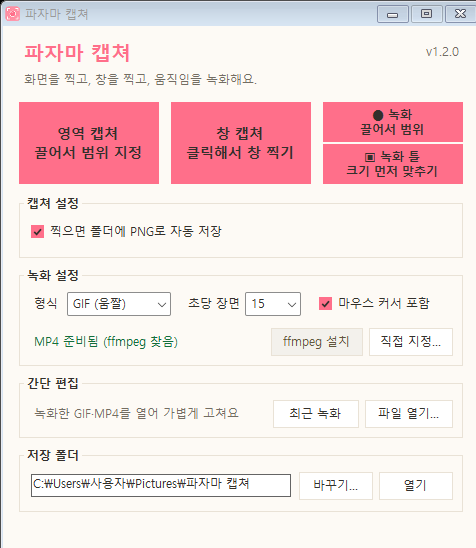
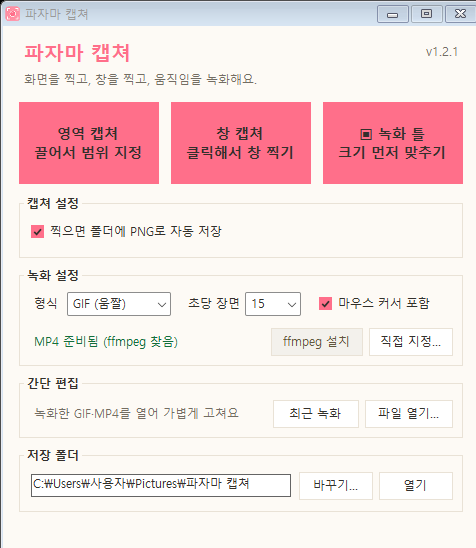
v1.2.1 — 메인 창의 「● 녹화(끌어서 범위)」 버튼 제거
같은 일(범위를 끌어서 정하고 바로 녹화)을 영역 캡쳐 도구 막대의 「● 녹화」로 할 수 있어 중복이라 뺐습니다.

- 메인 창: 「● 녹화 / 끌어서 범위」 버튼 삭제, 「▣ 녹화 틀」을 다른 두 버튼과 같은 큰 버튼으로
- 고르기 화면(Overlay): 녹화 전용 모드(OverlayMode.Record)와 그 안내 문구·「● 녹화 시작」 단추·Enter=녹화 처리를 삭제
  - 영역 캡쳐의 「● 녹화」, 녹화 테두리·녹화 막대(RecordFrame·RecordBar)·StartRecording 은 그대로 사용
- 영역 캡쳐에서 「● 녹화」를 눌렀을 때 MP4인데 ffmpeg 가 없으면 설치 안내/GIF 로 녹화를 묻도록 옮김(예전에는 지운 버튼에서만 물었음)
- 시험: 실제 화면 시험 3단계를 「영역 캡쳐 → 도구 막대 ● 녹화」로 바꾸고, 메인 창에 옛 버튼이 없는지 확인
- 문서: README(사용법 표·배지·버전 기록·메인 창 그림), docs/DEVELOPMENT.md 의 녹화 안내 수정
- 버전 1.2.1

Changed region(s): [[0.6765, 0.1861, 0.9706, 0.3412], [0.9412, 0.0931, 0.9706, 0.1241]]

diff --git a/src/MainForm.cs b/src/MainForm.cs
@@ -1,4 +1,4 @@
-// 파자마 캡쳐 메인 창 — 영역 캡쳐·창 캡쳐·녹화 버튼과 설정, 그리고 찍기→고르기→저장 흐름.
+// 파자마 캡쳐 메인 창 — 영역 캡쳐·창 캡쳐·녹화 틀 버튼과 설정, 그리고 찍기→고르기→저장(또는 녹화) 흐름.
 using System;
 using System.Collections.Generic;
 using System.Diagnostics;
@@ -24,7 +24,7 @@ namespace PajamaCapture
     static class Program
     {
         /// <summary>프로그램 버전. 바꾼 뒤 build.cmd 로 exe 를 다시 만든다.</summary>
-        public const string Version = "1.2.0";
+        public const string Version = "1.2.1";
 
         [STAThread]
         static int Main(string[] args)
@@ -129,7 +129,7 @@ namespace PajamaCapture
         public const string AppTitle = "파자마 캡쳐";
 
         readonly Settings settings = Settings.Load();
-        readonly Button btnArea = new Button(), btnWindow = new Button(), btnRecord = new Button(), btnFrame = new Button();
+        readonly Button btnArea = new Button(), btnWindow = new Button(), btnFrame = new Button();
         readonly ComboBox cbFormat = new ComboBox(), cbFps = new ComboBox();
         readonly CheckBox chkAutoSave = new PinkCheckBox(), chkCursor = new PinkCheckBox();
         readonly TextBox tbFolder = new TextBox();
@@ -146,7 +146,7 @@ namespace PajamaCapture
         RecordBar recordBar;
         FrameWindow frameWindow; // 녹화 틀(꿀캠 방식) — 열려 있는 동안만
 
-        const string RecordText = "● 녹화\n끌어서 범위", FrameText = "▣ 녹화 틀\n크기 먼저 맞추기", FrameCloseText = "▣ 녹화 틀 닫기";
+        const string FrameText = "▣ 녹화 틀\n크기 먼저 맞추기", FrameCloseText = "▣ 녹화 틀\n닫기";
 
         public MainForm()
         {
@@ -167,15 +167,8 @@ namespace PajamaCapture
 
             SetupBig(btnArea, "영역 캡쳐", "끌어서 범위 지정", 16);
             SetupBig(btnWindow, "창 캡쳐", "클릭해서 창 찍기", 168);
-            SetupBig(btnRecord, "● 녹화", "끌어서 범위", 320);
-            // 녹화 칸은 위아래 둘로 — 위: 끌어서 범위 정하고 바로 녹화(기존), 아래: 녹화 틀을 먼저 띄워 크기를 맞추고 녹화(꿀캠 방식)
-            btnRecord.Bounds = new Rectangle(320, 76, 140, 40);
-            btnRecord.Font = new Font("Malgun Gothic", 9f, FontStyle.Bold);
-            btnRecord.Text = RecordText;
-            btnFrame.Bounds = new Rectangle(320, 118, 140, 40);
-            btnFrame.Font = new Font("Malgun Gothic", 9f, FontStyle.Bold);
-            btnFrame.Text = FrameText;
-            btnFrame.Tag = PinkTheme.PrimaryTag;
+            // 녹화는 녹화 틀(꿀캠 방식)로 한다. 끌어서 범위를 정해 녹화하려면 영역 캡쳐 도구 막대의 「● 녹화」를 쓴다.
+            SetupBig(btnFrame, "▣ 녹화 틀", "크기 먼저 맞추기", 320);
 
             // 캡쳐 설정
             var gCapture = new PinkGroupBox { Text = "캡쳐 설정", Bounds = new Rectangle(16, 170, 444, 62) };
@@ -231,7 +224,7 @@ namespace PajamaCapture
             // 버전 — 제목 줄 오른쪽 끝에 흐린 글씨로(위치는 배율이 적용된 뒤 아래에서 맞춘다)
             var version = new Label { Name = "version", Text = "v" + Program.Version, AccessibleName = "버전 " + Program.Version, AutoSize = true };
 
-            Controls.AddRange(new Control[] { title, sub, version, btnArea, btnWindow, btnRecord, btnFrame, gCapture, gRecord, gEdit, gFolder, status });
+            Controls.AddRange(new Control[] { title, sub, version, btnArea, btnWindow, btnFrame, gCapture, gRecord, gEdit, gFolder, status });
             ResumeLayout(false);
             PinkTheme.Apply(this);
             title.ForeColor = PinkTheme.Accent;
@@ -255,7 +248,6 @@ namespace PajamaCapture
             // 이벤트
             btnArea.Click += (s, e) => StartPick(OverlayMode.Area);
             btnWindow.Click += (s, e) => StartPick(OverlayMode.Window);
-            btnRecord.Click += (s, e) => { if (recorder != null) StopRecording(false); else StartPick(OverlayMode.Record); };
             btnFrame.Click += (s, e) => ToggleFrame();
             chkAutoSave.CheckedChanged += (s, e) => { settings.AutoSave = chkAutoSave.Checked; settings.Save(); };
             cbFormat.SelectedIndexChanged += (s, e) => { settings.Mp4 = cbFormat.SelectedIndex == 1; settings.Save(); RefreshFfmpeg(); SyncFrameFormat(); };
@@ -368,7 +360,6 @@ namespace PajamaCapture
         void StartPick(OverlayMode mode)
         {
             if (busy) return;
-            if (mode == OverlayMode.Record && settings.Mp4 && !EnsureFfmpegOrGif()) return;
             busy = true;
             SetButtons(false);
             Hide(); // 이 창이 찍히지 않게 숨기고, 사라질 시간을 준 뒤 찍는다
@@ -426,7 +417,13 @@ namespace PajamaCapture
             try
             {
                 if (action == OverlayAction.Cancel) { shot.Dispose(); Done(); SetStatus("취소했어요."); return; }
-                if (action == OverlayAction.Record) { shot.Dispose(); StartRecording(rect); return; }
+                if (action == OverlayAction.Record) // 영역 캡쳐 도구 막대의 「● 녹화」 — 고른 범위 그대로 녹화
+                {
+                    shot.Dispose();
+                    if (settings.Mp4 && !EnsureFfmpegOrGif()) { Done(); SetStatus("녹화를 그만뒀어요."); return; }
+                    StartRecording(rect);
+                    return;
+                }
 
                 var local = rect;
                 local.Offset(-virt.X, -virt.Y);
@@ -504,7 +501,6 @@ namespace PajamaCapture
             bool frameOpen = frameWindow != null; // 녹화 틀이 떠 있는 동안에는 다른 찍기를 막고, 틀 버튼은 「닫기」가 된다
             btnArea.Enabled = on && !frameOpen;
             btnWindow.Enabled = on && !frameOpen;
-            btnRecord.Enabled = (on || recorder != null) && !frameOpen;
             btnFrame.Enabled = on && recorder == null;
             btnFrame.Text = frameOpen ? FrameCloseText : FrameText;
         }
@@ -601,7 +597,6 @@ namespace PajamaCapture
             recordBar.StopClicked += (s, e) => StopRecording(false);
             recordBar.CancelClicked += (s, e) => StopRecording(true);
             recordBar.Show();
-            btnRecord.Text = "■ 녹화 정지\n저장하기";
             SetButtons(false);
             SetStatus("녹화 중이에요. 막대의 「정지」를 누르면 저장해요.");
         }
@@ -624,7 +619,6 @@ namespace PajamaCapture
             if (recordFrame != null) { recordFrame.Close(); recordFrame = null; }
             if (recordBar != null) { recordBar.Close(); recordBar = null; }
             recorder = null;
-            btnRecord.Text = RecordText;
             if (frameWindow != null) frameWindow.ShowIdle(); // 틀은 그대로 두어 같은 자리에서 또 녹화할 수 있다
             Done();
 

diff --git a/tests/UiDriver.cs b/tests/UiDriver.cs
@@ -116,14 +116,17 @@ static class UiDriver
             target = null;
             Thread.Sleep(600);
 
-            // 3) 녹화(GIF): 범위를 끌어 정하고 Enter → 2초 뒤 막대의 「정지」
-            Console.WriteLine("[녹화]");
+            // 3) 녹화(GIF): 영역 캡쳐에서 범위를 끌어 정하고 도구 막대의 「● 녹화」 → 2초 뒤 막대의 「정지」
+            //    (메인 창의 「끌어서 범위」 녹화 버튼은 v1.2.1 에서 없앴다 — 같은 일을 영역 캡쳐가 한다)
+            Console.WriteLine("[녹화 — 영역 캡쳐의 ● 녹화]");
             main = FindWindow(app.Id, "파자마 캡쳐");
-            Invoke(main, "● 녹화");
+            Check(!HasButton(main, "● 녹화"), "메인 창에 「● 녹화(끌어서 범위)」 버튼이 없음");
+            Invoke(main, "영역 캡쳐");
             Thread.Sleep(900);
             Drag(prim.X + 400, prim.Y + 300, prim.X + 800, prim.Y + 540);
-            Thread.Sleep(250);
-            Key(0x0D);
+            Thread.Sleep(350);
+            Point rec = ToolbarButton(Rectangle.FromLTRB(prim.X + 400, prim.Y + 300, prim.X + 801, prim.Y + 541), 2);
+            Click(rec.X, rec.Y);
             Thread.Sleep(2200);
             AutomationElement bar = WaitFor(() => FindWindow(app.Id, "파자마 캡쳐 - 녹화 중"), 3000);
             Check(bar != null, "녹화 막대가 뜸");
@@ -291,6 +294,33 @@ static class UiDriver
         Application.DoEvents();
         Thread.Sleep(600);
         return gif ?? lastGif;
+    }
+
+    static bool HasButton(AutomationElement window, string startsWith)
+    {
+        foreach (AutomationElement b in window.FindAll(TreeScope.Descendants, new PropertyCondition(AutomationElement.ControlTypeProperty, ControlType.Button)))
+            if (b.Current.Name.StartsWith(startsWith)) return true;
+        return false;
+    }
+
+    /// <summary>영역 캡쳐 도구 막대의 index 번째 단추 가운데(화면 좌표). 그림으로만 그려지는 단추라 src\Overlay.cs 의 LayoutButtons 와 같은 계산을 한다.</summary>
+    static Point ToolbarButton(Rectangle sel, int index)
+    {
+        Point c = new Point(sel.X + sel.Width / 2, sel.Y + sel.Height / 2);
+        float scale = Math.Max(1f, DpiAt(c) / 96f);
+        Func<float, int> S = px => (int)Math.Round(px * scale);
+        string[] texts = { "복사  (Enter)", "저장…", "● 녹화", "취소" };
+        var widths = new int[texts.Length];
+        int gap = S(6), h = S(34), pad = S(6), total = -gap;
+        using (var bold = new Font("Malgun Gothic", 13f * scale, FontStyle.Bold, GraphicsUnit.Pixel))
+            for (int i = 0; i < texts.Length; i++) { widths[i] = TextRenderer.MeasureText(texts[i], bold).Width + S(24); total += widths[i] + gap; }
+        Rectangle m = Screen.FromPoint(c).Bounds;
+        int x = Math.Max(m.Left + pad, Math.Min(sel.Right - total, m.Right - total - pad));
+        int y = sel.Bottom + S(10);
+        if (y + h + pad > m.Bottom) y = sel.Top - S(10) - h;
+        if (y < m.Top + pad) y = sel.Bottom - S(10) - h;
+        for (int i = 0; i < index; i++) x += widths[i] + gap;
+        return new Point(x + widths[index] / 2, y + h / 2);
     }
 
     static AutomationElement FindWindow(int pid, string title)

diff --git a/src/Overlay.cs b/src/Overlay.cs
@@ -10,7 +10,7 @@ using PinkUi;
 
 namespace PajamaCapture
 {
-    enum OverlayMode { Area, Window, Record }
+    enum OverlayMode { Area, Window }
     enum OverlayAction { Cancel, Copy, Save, Record }
 
     sealed class Overlay : Form
@@ -187,7 +187,6 @@ namespace PajamaCapture
         string HintText()
         {
             if (mode == OverlayMode.Window) return "캡쳐할 창을 클릭하세요  ·  Esc 취소";
-            if (mode == OverlayMode.Record) return "녹화할 영역을 끌어서 정하거나 창을 클릭하세요  ·  Esc 취소";
             return "끌어서 영역을 정하세요  ·  창 위에서 클릭하면 창 범위  ·  Esc 취소";
         }
 
@@ -226,16 +225,9 @@ namespace PajamaCapture
         {
             buttons.Clear();
             if (!hasSel || drag != DragKind.None) return;
-            if (mode == OverlayMode.Record)
-            {
-                Add("● 녹화 시작", OverlayAction.Record, true);
-            }
-            else
-            {
-                Add("복사  (Enter)", OverlayAction.Copy, true);
-                Add("저장…", OverlayAction.Save, false);
-                Add("● 녹화", OverlayAction.Record, false);
-            }
+            Add("복사  (Enter)", OverlayAction.Copy, true);
+            Add("저장…", OverlayAction.Save, false);
+            Add("● 녹화", OverlayAction.Record, false); // 고른 범위를 그대로 녹화(끌어서 범위 정해 녹화하는 유일한 길)
             Add("취소", OverlayAction.Cancel, false);
 
             int gap = S(6), h = S(34), total = -gap;
@@ -510,7 +502,7 @@ namespace PajamaCapture
         {
             base.OnMouseDoubleClick(e);
             if (e.Button == MouseButtons.Left && hasSel && sel.Contains(e.Location) && mode != OverlayMode.Window)
-                Finish(PrimaryAction);
+                Finish(OverlayAction.Copy);
         }
 
         Point ClampPoint(Point p)
@@ -533,16 +525,14 @@ namespace PajamaCapture
             else Cursor = Cursors.Cross;
         }
 
-        // ── 키보드: Enter 확정, Esc 취소, 화살표 1점 이동(Shift 는 크기) ──
-
-        OverlayAction PrimaryAction { get { return mode == OverlayMode.Record ? OverlayAction.Record : OverlayAction.Copy; } }
+        // ── 키보드: Enter 복사, Esc 취소, 화살표 1점 이동(Shift 는 크기) ──
 
         protected override bool ProcessCmdKey(ref Message msg, Keys keyData)
         {
             Keys key = keyData & Keys.KeyCode;
             bool shift = (keyData & Keys.Shift) != 0;
             if (key == Keys.Escape) { Finish(OverlayAction.Cancel); return true; }
-            if (key == Keys.Enter && hasSel) { Finish(PrimaryAction); return true; }
+            if (key == Keys.Enter && hasSel) { Finish(OverlayAction.Copy); return true; }
             if (hasSel && (key == Keys.Left || key == Keys.Right || key == Keys.Up || key == Keys.Down))
             {
                 int dx = key == Keys.Left ? -1 : key == Keys.Right ? 1 : 0;

diff --git a/src/SelfTest.cs b/src/SelfTest.cs
@@ -1,5 +1,5 @@
 // 시험용 실행 방식 — 사람이 마우스를 움직이지 않아도 화면 그리기·창 찾기·녹화를 확인한다.
-//   파자마캡쳐.exe --selftest overlay <저장.png> <area|window|record> [hover]
+//   파자마캡쳐.exe --selftest overlay <저장.png> <area|window> [hover]
 //   파자마캡쳐.exe --selftest main <저장.png>
 //   파자마캡쳐.exe --selftest windows
 //   파자마캡쳐.exe --selftest record <gif|mp4> <초> <저장 파일> [ffmpeg.exe] [x y w h]
@@ -56,7 +56,7 @@ namespace PajamaCapture
             Rectangle virt = Native.VirtualScreen;
             var windows = WindowFinder.List(virt);
             using (var shot = ScreenCapturer.Snap(virt))
-            using (var ov = new Overlay(mode == "window" ? OverlayMode.Window : mode == "record" ? OverlayMode.Record : OverlayMode.Area, shot, virt, windows))
+            using (var ov = new Overlay(mode == "window" ? OverlayMode.Window : OverlayMode.Area, shot, virt, windows))
             {
                 Rectangle primary = Screen.PrimaryScreen.Bounds;
                 if (hover) ov.TestHover(new Point(primary.X + primary.Width / 2, primary.Y + primary.Height / 2));

diff --git a/README.md b/README.md
@@ -10,7 +10,7 @@
 </p>
 
 <p align="center">
-  <a href="https://github.com/hwangjinwook/PajamaCapture/releases/latest"><img src="https://img.shields.io/badge/%EC%B5%9C%EC%8B%A0%20%EB%B2%84%EC%A0%84-v1.2.0-ff7aa2" alt="최신 버전 v1.2.0"></a>
+  <a href="https://github.com/hwangjinwook/PajamaCapture/releases/latest"><img src="https://img.shields.io/badge/%EC%B5%9C%EC%8B%A0%20%EB%B2%84%EC%A0%84-v1.2.1-ff7aa2" alt="최신 버전 v1.2.1"></a>
   <img src="https://img.shields.io/badge/Windows-10%20%7C%2011-ff9cb8" alt="Windows 10, 11">
   <img src="https://img.shields.io/badge/%EC%84%A4%EC%B9%98-%ED%95%84%EC%9A%94%20%EC%97%86%EC%9D%8C-ffb8cb" alt="설치 필요 없음">
 </p>
@@ -51,7 +51,7 @@
 <tr><td nowrap>범위 고치기</td><td>분홍 손잡이를 끌어 크기, 범위 안쪽을 끌어 위치. 화살표 1점 이동, <code>Shift</code>+화살표 1점 크기</td></tr>
 <tr><td nowrap>저장하며 찍기</td><td>범위를 정한 뒤 <b>저장…</b> → 위치·이름·형식(PNG·JPG·BMP) 고르기</td></tr>
 <tr><td nowrap>창 캡쳐</td><td><b>창 캡쳐</b> → 찍을 창을 클릭(바탕 화면을 누르면 그 모니터 전체)</td></tr>
-<tr><td nowrap>바로 녹화</td><td><b>● 녹화</b> → 범위를 끌거나 창을 클릭 → <b>● 녹화 시작</b>(<code>Enter</code>) → 막대의 <b>■ 정지</b></td></tr>
+<tr><td nowrap>끌어서 바로 녹화</td><td><b>영역 캡쳐</b> → 범위를 끌거나 창을 클릭 → 도구 막대의 <b>● 녹화</b> → 녹화 막대의 <b>■ 정지</b></td></tr>
 <tr><td nowrap>틀 띄우고 녹화</td><td><b>▣ 녹화 틀</b> → 틀을 옮기고 크기 맞추기 → 막대의 <b>● 녹화</b> → <b>■ 정지</b> (아래 「🖼 녹화 틀」)</td></tr>
 <tr><td nowrap>녹화 설정</td><td>형식(GIF·MP4), 초당 장면(10·15·20·30), 마우스 커서 포함</td></tr>
 <tr><td nowrap>녹화 고치기</td><td>녹화 알림의 <b>편집하기</b>, 메인 창 <b>최근 녹화</b>·<b>파일 열기…</b>, 또는 GIF·MP4 를 메인 창에 끌어다 놓기</td></tr>
@@ -98,7 +98,8 @@
 
 <table>
 <tr><th nowrap>버전</th><th nowrap>배포일</th><th>내용</th></tr>
-<tr><td nowrap><b>v1.2.0</b></td><td nowrap>2026-11-27</td><td>🖼 녹화 틀(꿀캠 방식) — 틀을 먼저 띄워 옮기고 크기를 맞춘 뒤 녹화<br>크기 표시·정해진 크기 메뉴, 녹화 중 크기 잠금, MP4 는 짝수 크기로</td></tr>
+<tr><td nowrap><b>v1.2.1</b></td><td nowrap>2026-11-27</td><td>메인 창의 「● 녹화(끌어서 범위)」 버튼을 뺌 — 같은 일은 <b>영역 캡쳐</b> 도구 막대의 <b>● 녹화</b>로 해요</td></tr>
+<tr><td nowrap>v1.2.0</td><td nowrap>2026-11-27</td><td>🖼 녹화 틀(꿀캠 방식) — 틀을 먼저 띄워 옮기고 크기를 맞춘 뒤 녹화<br>크기 표시·정해진 크기 메뉴, 녹화 중 크기 잠금, MP4 는 짝수 크기로</td></tr>
 <tr><td nowrap>v1.1.0</td><td nowrap>2026-11-08</td><td>✂ 간단 편집 — GIF 프레임 솎기·삭제·시간·캔버스 크기·영역 잘라내기, MP4 크기 바꾸기</td></tr>
 <tr><td nowrap>v1.0.1</td><td nowrap>2026-11-07</td><td>찍기 전 기다림(타이머) 설정을 빼고, 창 오른쪽 위에 버전 표시</td></tr>
 <tr><td nowrap>v1.0.0</td><td nowrap>2026-11-07</td><td>첫 버전 — 영역 캡쳐·창 캡쳐·GIF/MP4 녹화</td></tr>
